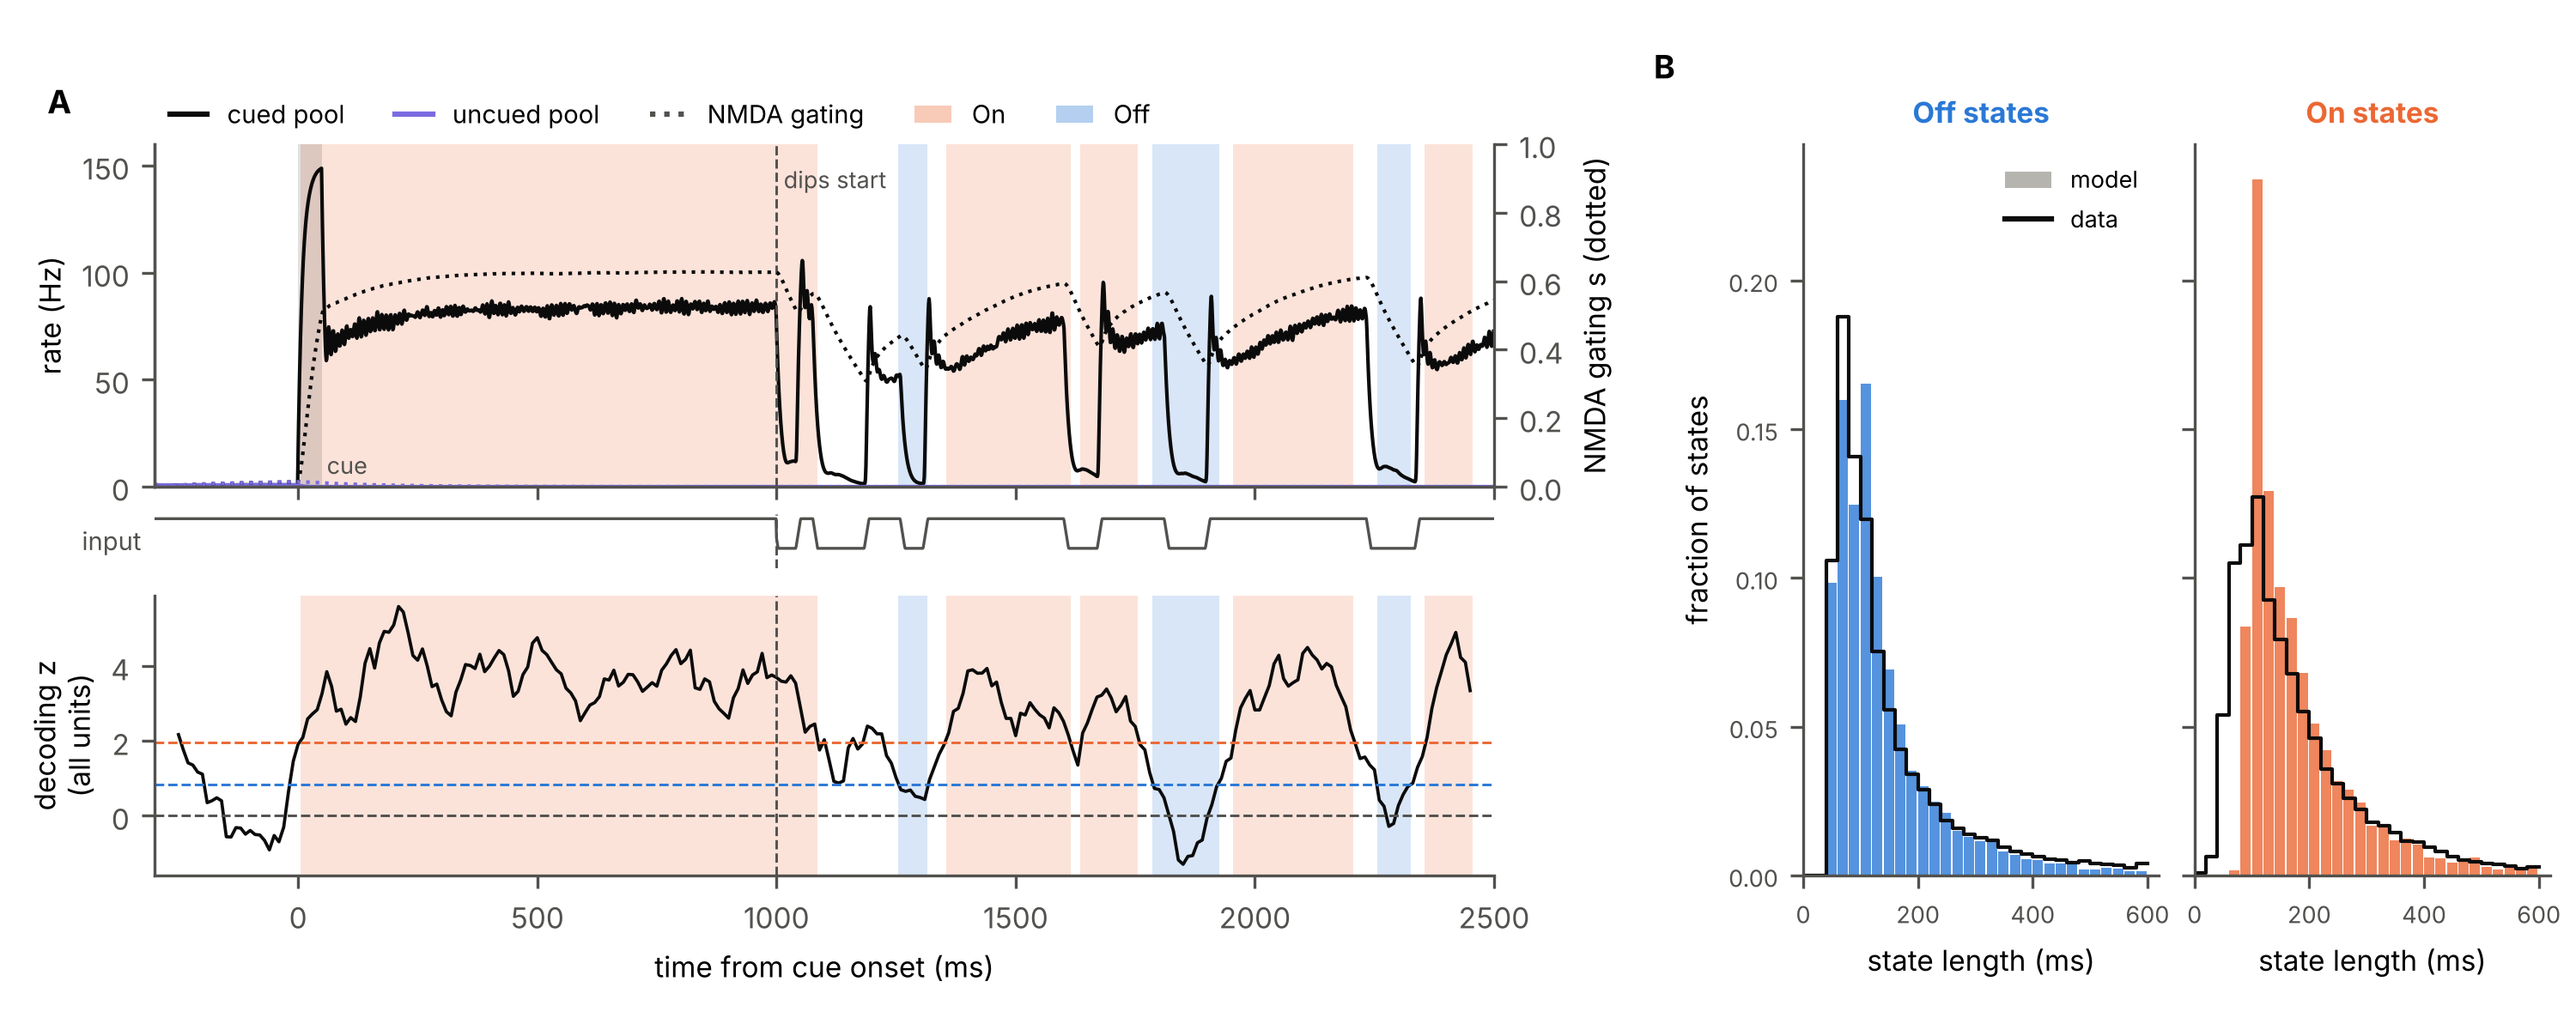
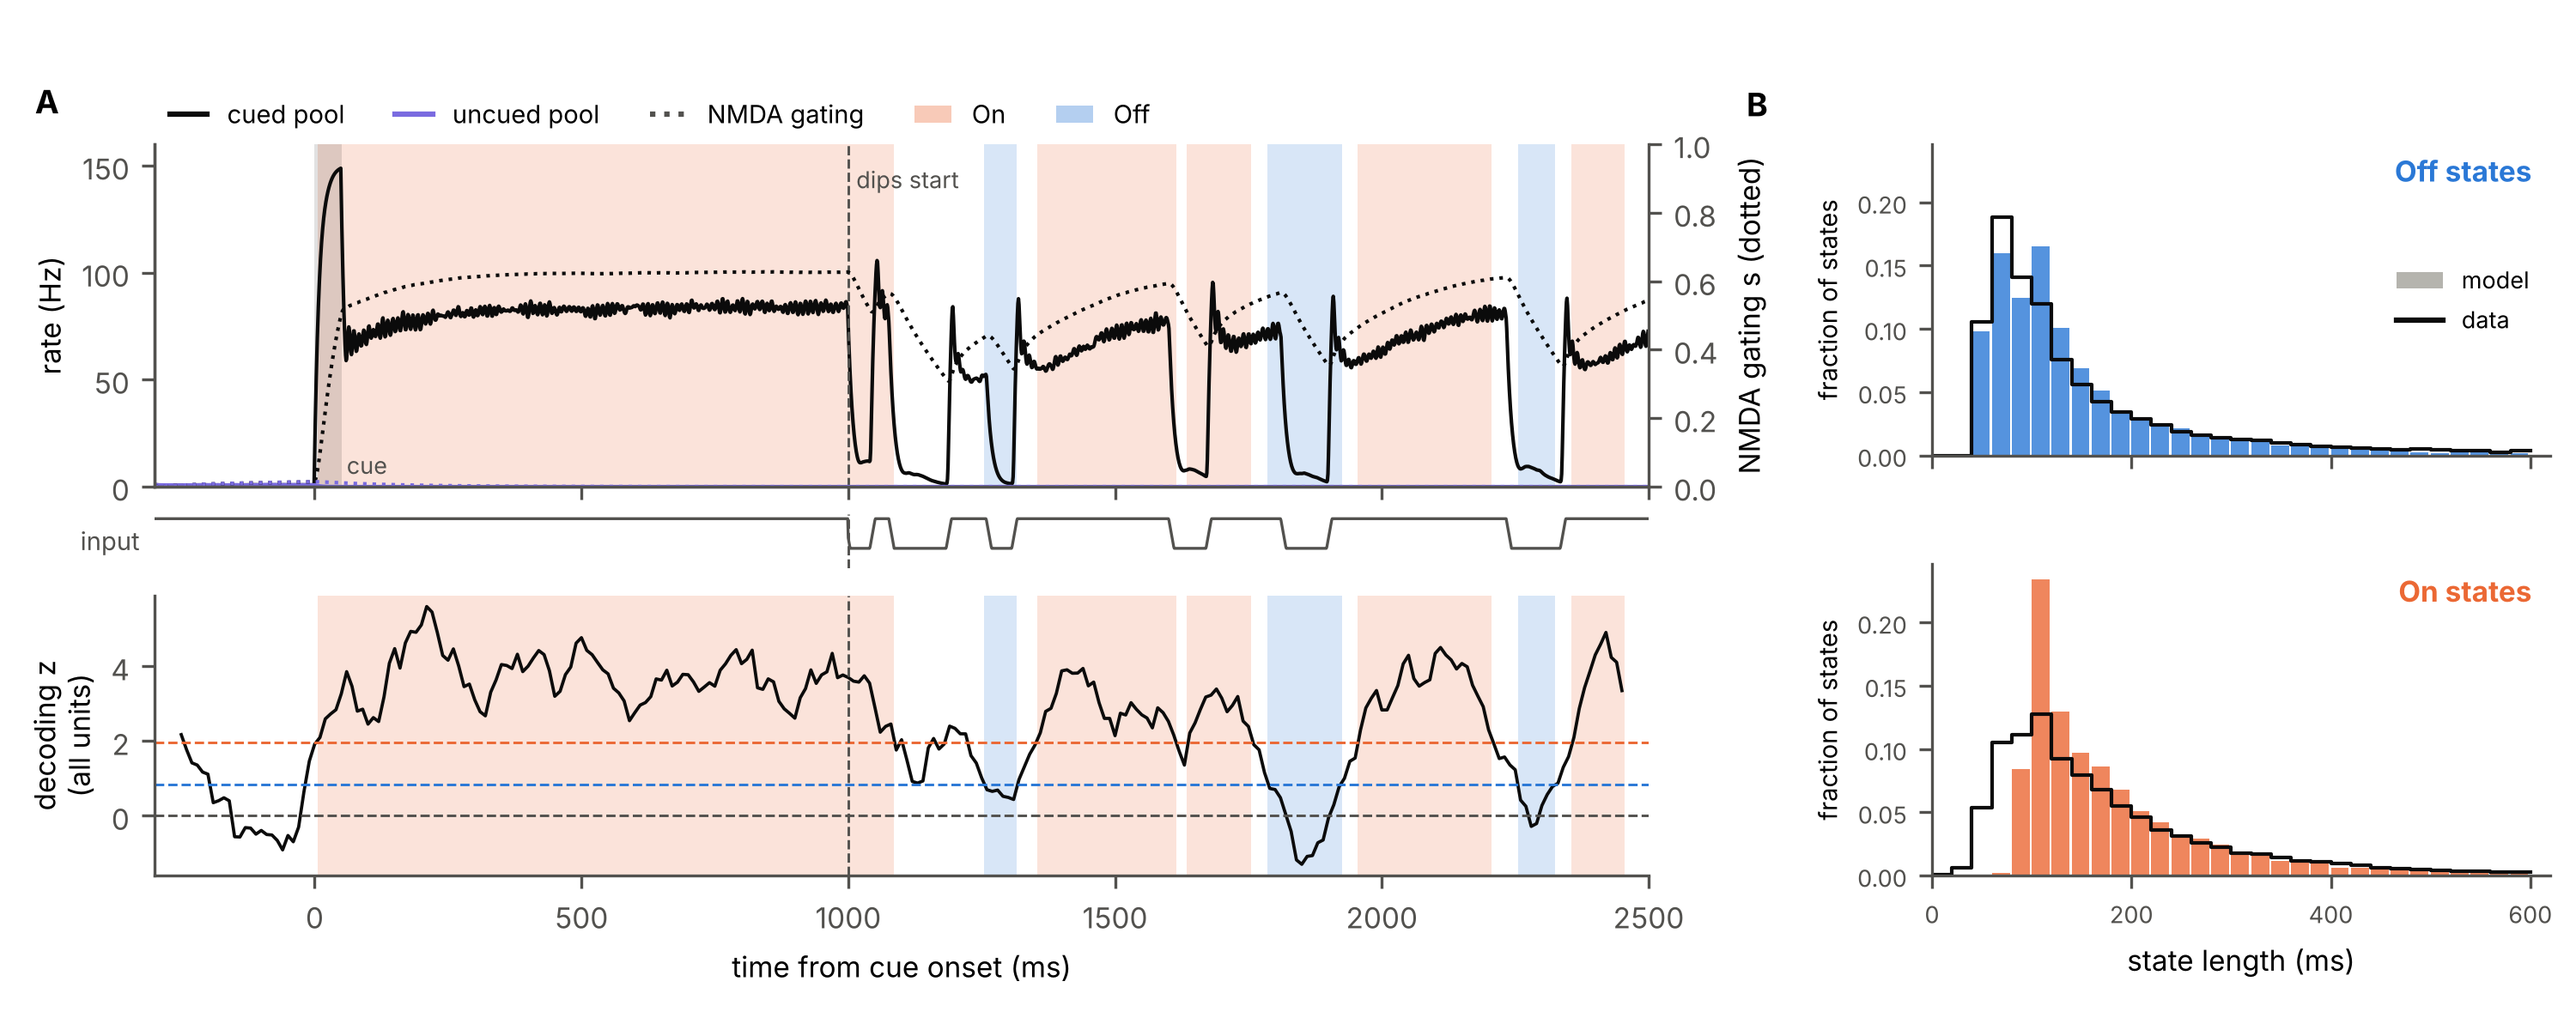
Figure 1: Off and On histograms stacked in one column
Claude-Session: https://claude.ai/code/session_01DWA8oLxpZgubPZ4A6kb3Lh

diff --git a/paper_model/make_figures.py b/paper_model/make_figures.py
@@ -60,8 +60,8 @@ def figure1(out, hist, path):
     r = out['sets'][FIT_SET]
     tr, t, tz, z, state = example_trial(r['gain'])
     fig = plt.figure(figsize=(10.0, 4.0))
-    gs = fig.add_gridspec(3, 1, height_ratios=[2.2, 0.35, 1.8], hspace=0.12, left=0.06, right=0.58, top=0.86, bottom=0.15)
-    gh = fig.add_gridspec(1, 2, wspace=0.1, left=0.7, right=0.99, top=0.86, bottom=0.15)
+    gs = fig.add_gridspec(3, 1, height_ratios=[2.2, 0.35, 1.8], hspace=0.12, left=0.06, right=0.64, top=0.86, bottom=0.15)
+    gh = fig.add_gridspec(2, 1, hspace=0.35, left=0.75, right=0.99, top=0.86, bottom=0.15)
     a, b, d = fig.add_subplot(gs[0]), fig.add_subplot(gs[1]), fig.add_subplot(gs[2])
     shade(a, tz, state)
     a.axvspan(0, M.FIXED['cue_dur'], color=INK, alpha=0.12, lw=0)
@@ -98,19 +98,20 @@ def figure1(out, hist, path):
         ax.tick_params(labelbottom=False)
     edges = np.arange(0, 620, 20)
     for j, (name, c) in enumerate((('off', C_OFF), ('on', C_ON))):
-        h = fig.add_subplot(gh[j], sharey=fig.axes[-1] if j else None)
+        h = fig.add_subplot(gh[j], sharex=fig.axes[-1] if j else None, sharey=fig.axes[-1] if j else None)
         hm, hd = r['h_' + name], hist[FIT_SET, name]
         h.bar(edges[:-1], hm[:-1] / hm.sum(), width=18, align='edge', color=c, alpha=0.8, lw=0)
         h.step(edges, np.r_[hd[:-1], hd[-2]] / hd.sum(), where='post', color=INK, lw=1.0)
-        h.set_xlim(0, 620); h.set_xticks([0, 200, 400, 600]); h.set_xlabel('state length (ms)'); h.tick_params(labelsize=6.5)
-        h.set_title(f'{name.capitalize()} states', color=c, loc='center')
+        h.set_xlim(0, 620); h.set_xticks([0, 200, 400, 600]); h.tick_params(labelsize=6.5)
+        h.set_ylabel('fraction of states', fontsize=7)
+        h.text(0.97, 0.88, f'{name.capitalize()} states', transform=h.transAxes, ha='right', color=c, weight='bold')
         if j == 0:
-            h.set_ylabel('fraction of states')
-            h.text(-0.42, 1.09, 'B', transform=h.transAxes, fontsize=9, weight='bold')
+            h.tick_params(labelbottom=False)
+            h.text(-0.3, 1.09, 'B', transform=h.transAxes, fontsize=9, weight='bold')
             h.legend(handles=[plt.Rectangle((0, 0), 1, 1, color=MUTED, lw=0, label='model'),
-                              Line2D([], [], color=INK, label='data')], loc='upper right', fontsize=6.5)
+                              Line2D([], [], color=INK, label='data')], loc='center right', fontsize=6.5)
         else:
-            h.tick_params(labelleft=False)
+            h.set_xlabel('state length (ms)')
     fig.savefig(path, dpi=300)
 
 
